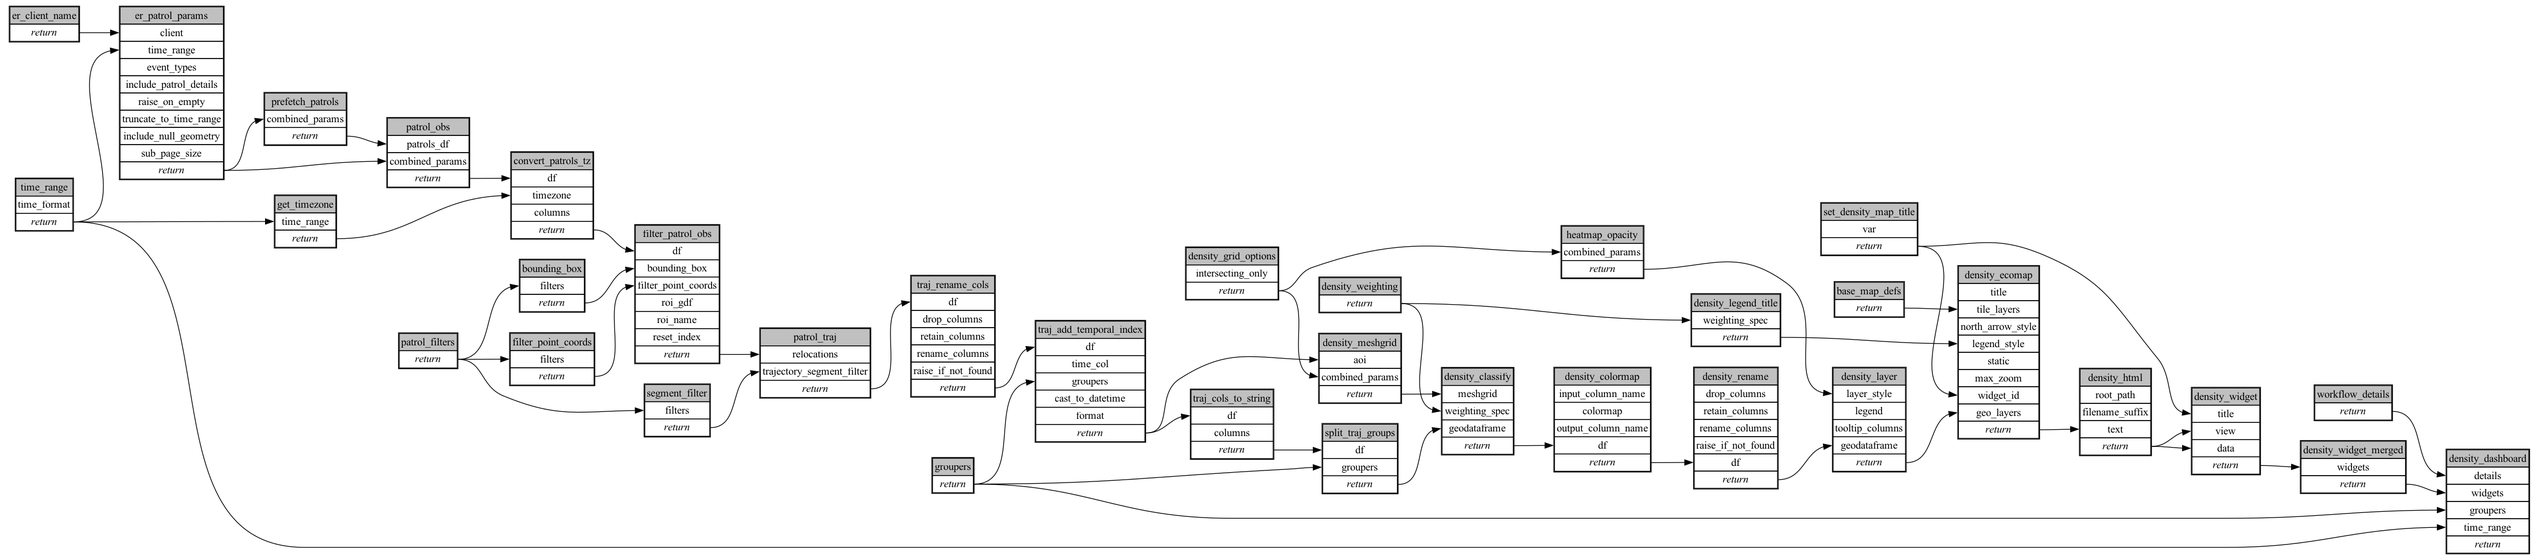
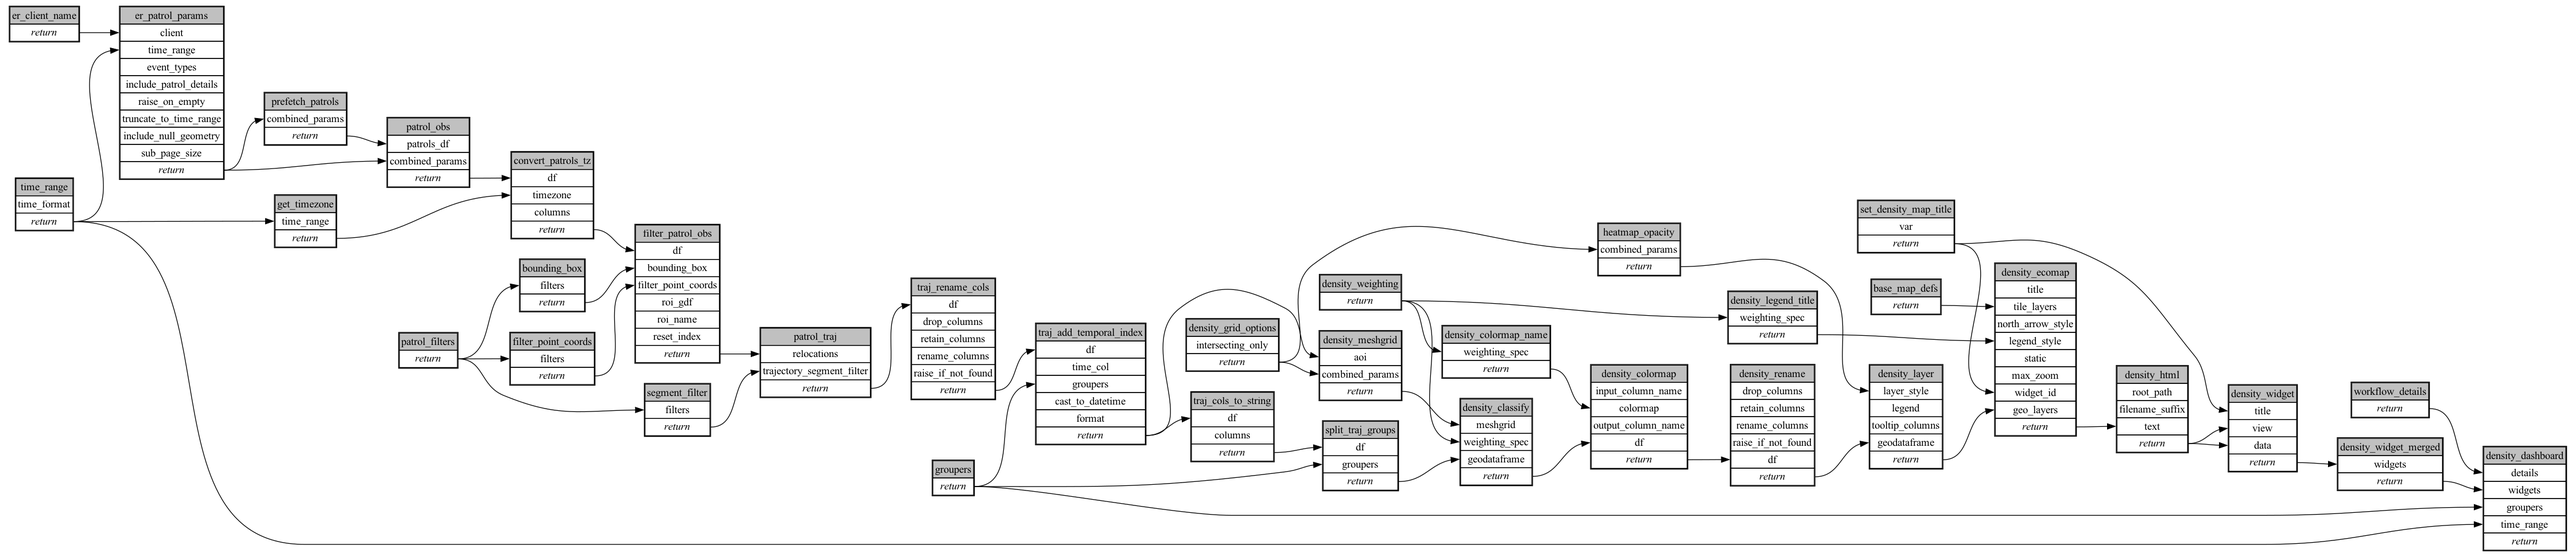
Flip density colormap direction for Normalised (LTD)
Wire apply_color_map's colormap through the new get_density_colormap
extractor instead of a static RdYlGn_r: sum weightings stay green->red
(high effort red), but LTD percentiles flip to red->green because the
lowest isopleth is the densest core (patrols Time Density Map
convention). Includes the recompiled package.

diff --git a/ecoscope-workflows-patrol-track-density-map-workflow/ecoscope_workflows_patrol_track_density_map_workflow/dags/run_sequential_mock_io.py b/ecoscope-workflows-patrol-track-density-map-workflow/ecoscope_workflows_patrol_track_density_map_workflow/dags/run_sequential_mock_io.py
@@ -45,6 +45,9 @@ from ecoscope.platform.tasks.analysis import (
     calculate_classified_track_density as calculate_classified_track_density,
 )
 from ecoscope.platform.tasks.analysis import (
+    get_density_colormap as get_density_colormap,
+)
+from ecoscope.platform.tasks.analysis import (
     get_density_legend_title as get_density_legend_title,
 )
 from ecoscope.platform.tasks.analysis import (
@@ -648,6 +651,26 @@ def main(params: dict[str, Any], validate_params_schema: bool = True):
         .call()
     )
 
+    density_colormap_name = (
+        task(get_density_colormap)
+        .validate()
+        .set_task_instance_id("density_colormap_name")
+        .handle_errors()
+        .with_tracing()
+        .skipif(
+            conditions=[
+                any_is_empty_df,
+                any_dependency_skipped,
+            ],
+            unpack_depth=1,
+        )
+        .partial(
+            weighting_spec=density_weighting,
+            **(params.get("density_colormap_name") or {}),
+        )
+        .call()
+    )
+
     density_colormap = (
         task(apply_color_map)
         .validate()
@@ -663,7 +686,7 @@ def main(params: dict[str, Any], validate_params_schema: bool = True):
         )
         .partial(
             input_column_name="density_bins",
-            colormap="RdYlGn_r",
+            colormap=density_colormap_name,
             output_column_name="density_colormap",
             **(params.get("density_colormap") or {}),
         )

diff --git a/ecoscope-workflows-patrol-track-density-map-workflow/ecoscope_workflows_patrol_track_density_map_workflow/dags/run_sequential.py b/ecoscope-workflows-patrol-track-density-map-workflow/ecoscope_workflows_patrol_track_density_map_workflow/dags/run_sequential.py
@@ -6,6 +6,9 @@ from ecoscope.platform.tasks.analysis import (
     calculate_classified_track_density as calculate_classified_track_density,
 )
 from ecoscope.platform.tasks.analysis import (
+    get_density_colormap as get_density_colormap,
+)
+from ecoscope.platform.tasks.analysis import (
     get_density_legend_title as get_density_legend_title,
 )
 from ecoscope.platform.tasks.analysis import (
@@ -630,6 +633,26 @@ def main(params: dict[str, Any], validate_params_schema: bool = True):
         .call()
     )
 
+    density_colormap_name = (
+        task(get_density_colormap)
+        .validate()
+        .set_task_instance_id("density_colormap_name")
+        .handle_errors()
+        .with_tracing()
+        .skipif(
+            conditions=[
+                any_is_empty_df,
+                any_dependency_skipped,
+            ],
+            unpack_depth=1,
+        )
+        .partial(
+            weighting_spec=density_weighting,
+            **(params.get("density_colormap_name") or {}),
+        )
+        .call()
+    )
+
     density_colormap = (
         task(apply_color_map)
         .validate()
@@ -645,7 +668,7 @@ def main(params: dict[str, Any], validate_params_schema: bool = True):
         )
         .partial(
             input_column_name="density_bins",
-            colormap="RdYlGn_r",
+            colormap=density_colormap_name,
             output_column_name="density_colormap",
             **(params.get("density_colormap") or {}),
         )

diff --git a/ecoscope-workflows-patrol-track-density-map-workflow/README.md b/ecoscope-workflows-patrol-track-density-map-workflow/README.md
@@ -5,8 +5,8 @@
 
 ```yaml
 # fingerprint:
-artifacts_sha256_basic: 7bc25183a22e185abff3e78a55d5a7c08dc1a617922b8ecb6a59f5b2620262ed
-artifacts_sha256_strict: aee1c96fb588ae2aaa3de1dce340ae6260b4455f37d9dda84f118a5cd4ba5669
+artifacts_sha256_basic: 354cebdea4519de41f88103eb03ee78a8e957f9ca723fcf689f04dd754fcb864
+artifacts_sha256_strict: 87d8b7b144292c858f7f5cac773d47758d0ac7cba93c20e9b7891623f012a138
 installed_requirements:
 - channel: https://repo.prefix.dev/ecoscope-workflows/
   name: lonboard
@@ -18,7 +18,7 @@ installed_requirements:
   name: pydeck
   version: {version: ==0.9.2}
 params_sha256: 75ecf3e08384d7c1fd92c2f2560b7d02d41dcc4bebf30734efae0ec0fed9b128
-spec_sha256: e1d79c2ec363273e0a11eb633024a5f19a5f789486a83631266c0a074430f899
+spec_sha256: ae5b9c92c196303f6c2954924cee3a343d5baa38f761d555b02ce116982e5c69
 
 ```
 
